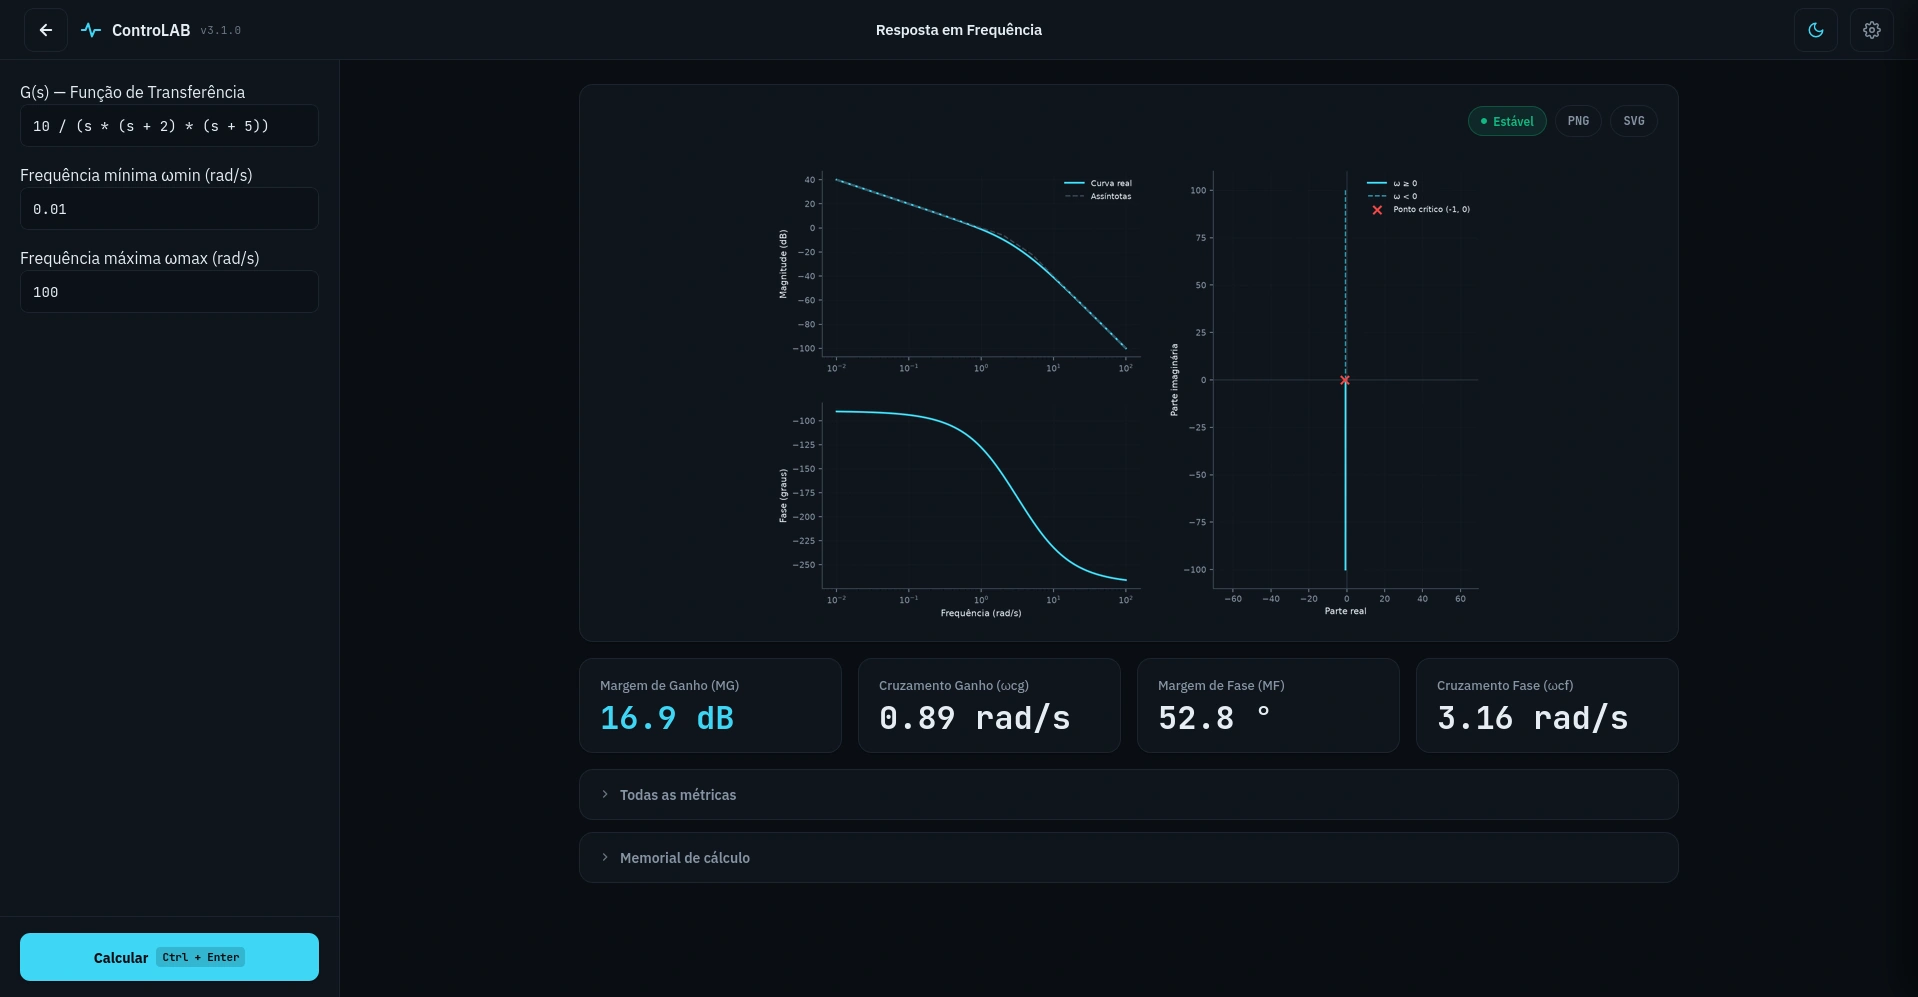
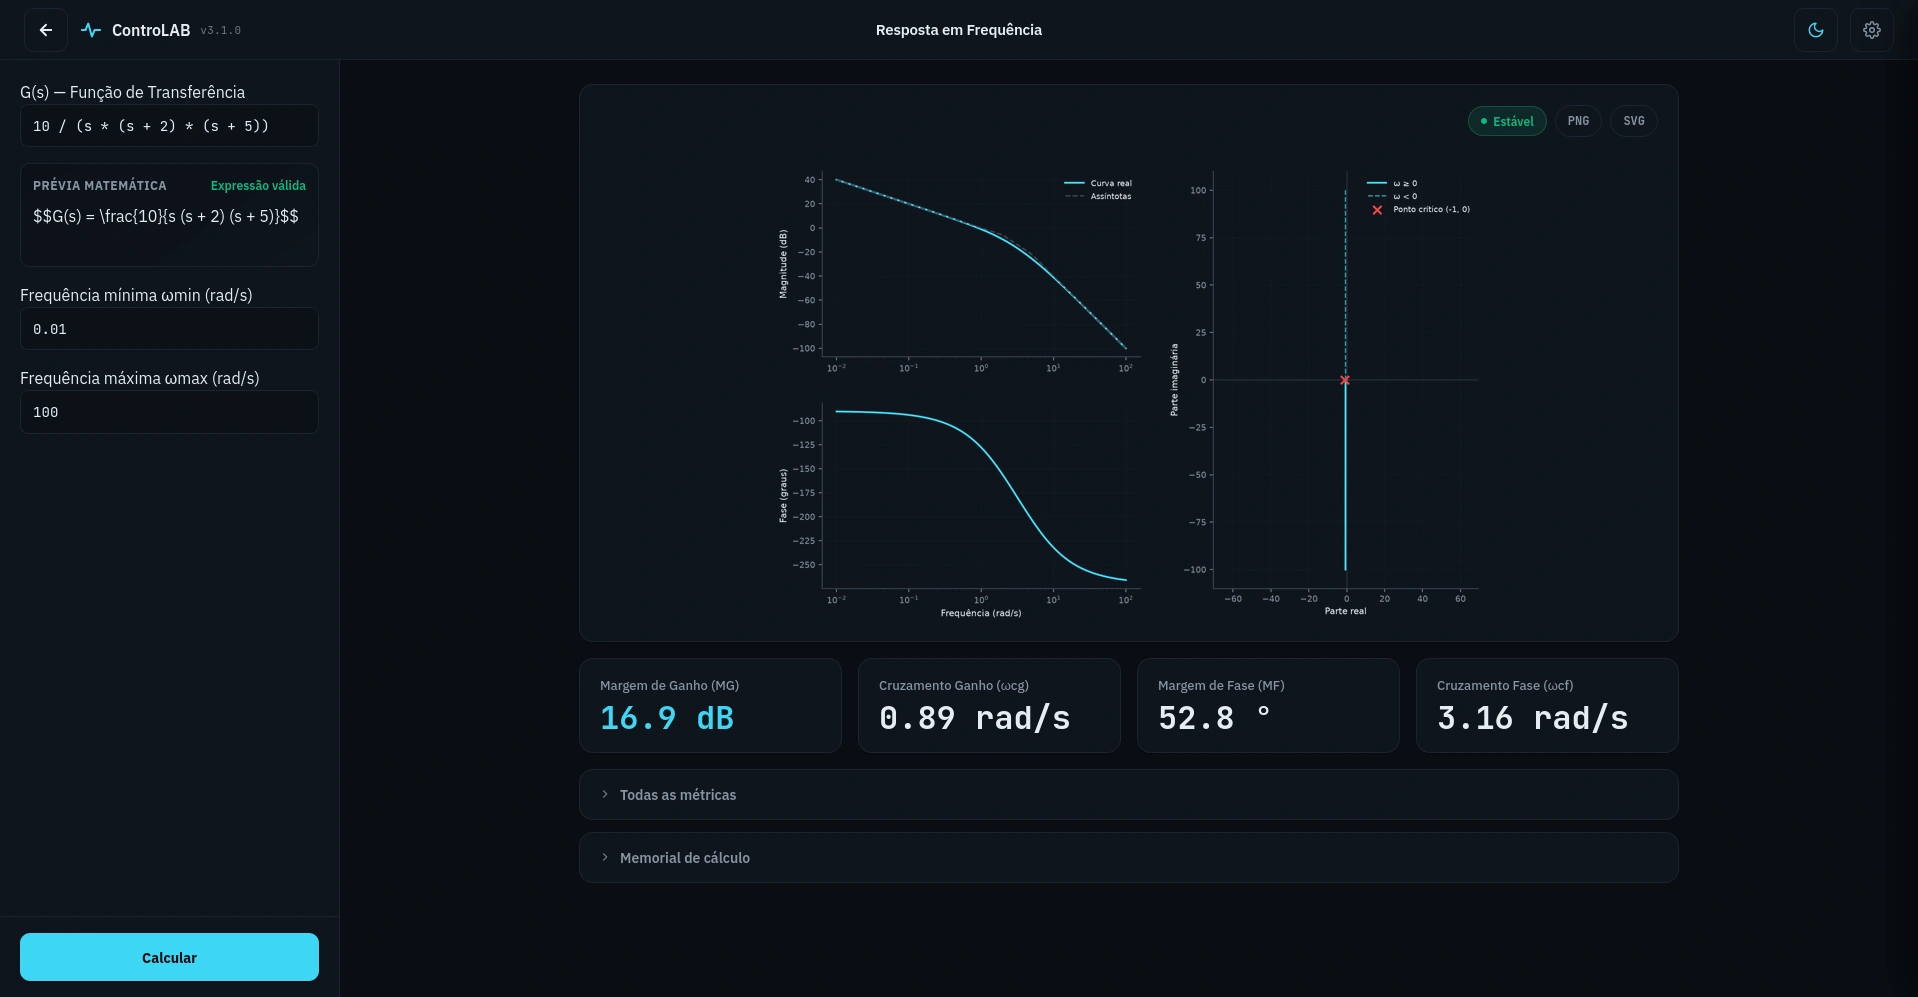
feat(ui): adicionar previa matematica nos modulos cientificos e limpar botoes de acao

diff --git a/src/renderer/scientific-modules.js b/src/renderer/scientific-modules.js
@@ -246,14 +246,118 @@
   function initialize({ renderMath, showToast }) {
     const form = element('scientific-form');
     const runButton = element('btn-run-scientific');
+    const previewContainer = element('scientific-function-preview');
+    const previewStatus = element('scientific-preview-status');
+    const previewMath = element('scientific-latex-preview');
+    const previewError = element('scientific-preview-error');
     if (!form || !runButton) return null;
 
     let currentKey = null;
     let currentResult = null;
     let currentResponseType = 'step';
     let requestId = 0;
+    let previewTimer = null;
+    let previewRequestId = 0;
+    let lastPreviewExpr = null;
+
+    function formatExpressionToLatex(raw, prefix = 'G(s)') {
+      if (!raw) return `${prefix} = 0`;
+      let tex = raw.trim();
+      tex = tex
+        .replace(/\s+/g, ' ')
+        .replace(/\*/g, ' ')
+        .replace(/\^([0-9]+)/g, '^{$1}')
+        .replace(/s([0-9]+)/g, 's^{$1}');
+
+      if (tex.includes('/')) {
+        const slashIdx = tex.indexOf('/');
+        let num = tex.slice(0, slashIdx).trim();
+        let den = tex.slice(slashIdx + 1).trim();
+        if (num.startsWith('(') && num.endsWith(')')) num = num.slice(1, -1).trim();
+        if (den.startsWith('(') && den.endsWith(')')) den = den.slice(1, -1).trim();
+        return `${prefix} = \\frac{${num}}{${den}}`;
+      }
+      return `${prefix} = ${tex}`;
+    }
+
+    function getExpressionInput() {
+      return form.elements.namedItem('expr') || form.elements.namedItem('plant_expr');
+    }
+
+    function scheduleScientificPreview() {
+      const exprInput = getExpressionInput();
+      if (!exprInput || !previewContainer) return;
+      const raw = exprInput.value.trim();
+
+      if (previewMath) {
+        const instantTex = formatExpressionToLatex(raw);
+        renderMath(previewMath, instantTex, true);
+      }
+
+      if (previewStatus) {
+        if (!raw) {
+          previewStatus.textContent = 'Aguardando entrada';
+          previewStatus.className = 'preview-status';
+        } else {
+          previewStatus.textContent = 'Validando…';
+          previewStatus.className = 'preview-status loading';
+        }
+      }
+      if (previewError) previewError.hidden = true;
+
+      if (!raw) {
+        lastPreviewExpr = '';
+        return;
+      }
+
+      const reqId = ++previewRequestId;
+      window.clearTimeout(previewTimer);
+      previewTimer = window.setTimeout(async () => {
+        if (reqId !== previewRequestId) return;
+        if (raw === lastPreviewExpr) return;
+
+        if (!global.api?.previewTransferFunction) {
+          if (previewStatus) {
+            previewStatus.textContent = 'Expressão válida';
+            previewStatus.className = 'preview-status valid';
+          }
+          return;
+        }
+
+        try {
+          const res = await global.api.previewTransferFunction({ mode: 'expr', expr: raw });
+          if (reqId !== previewRequestId) return;
+          if (!res || !res.success) {
+            throw new Error(res?.error || 'Expressão matemática inválida.');
+          }
+          lastPreviewExpr = raw;
+          if (previewMath) {
+            renderMath(previewMath, res.latex_fac || res.latex_exp, true);
+          }
+          if (previewStatus) {
+            previewStatus.textContent = 'Expressão válida';
+            previewStatus.className = 'preview-status valid';
+          }
+          if (previewError) previewError.hidden = true;
+        } catch (err) {
+          if (reqId !== previewRequestId) return;
+          if (previewStatus) {
+            previewStatus.textContent = 'Revise a entrada';
+            previewStatus.className = 'preview-status invalid';
+          }
+          if (previewError) {
+            previewError.textContent = err.message;
+            previewError.hidden = false;
+          }
+        }
+      }, 300);
+    }
 
     function renderFields(config) {
+      if (previewContainer && form.parentElement) {
+        previewContainer.style.display = 'none';
+        form.parentElement.appendChild(previewContainer);
+      }
       form.replaceChildren();
       config.fields.forEach((field) => {
         const group = document.createElement('div');
@@ -332,6 +436,12 @@
         input.autocomplete = 'off';
         group.appendChild(input);
         form.appendChild(group);
+
+        if (field.name === 'expr' || field.name === 'plant_expr') {
+          if (previewContainer) {
+            form.appendChild(previewContainer);
+          }
+        }
       });
 
       if (config.examples?.length) {
@@ -346,6 +456,7 @@
             const expressionInput = form.elements.namedItem('expr') || form.elements.namedItem('plant_expr');
             if (expressionInput) {
               expressionInput.value = expression;
+              scheduleScientificPreview();
               run();
             }
           });
@@ -364,6 +475,15 @@
           return control && accepted.includes(control.value);
         });
       });
+
+      const exprInput = getExpressionInput();
+      if (previewContainer) {
+        const isExprVisible = exprInput && !exprInput.closest('.form-group')?.hidden;
+        previewContainer.style.display = isExprVisible ? 'block' : 'none';
+        if (isExprVisible) {
+          scheduleScientificPreview();
+        }
+      }
     }
 
     function open(moduleKey) {
@@ -371,6 +491,7 @@
       if (!config) return false;
       if (currentKey !== moduleKey) {
         currentKey = moduleKey;
+        lastPreviewExpr = null;
         const kickerEl = element('scientific-kicker');
         if (kickerEl) kickerEl.textContent = config.kicker;
         const titleEl = element('scientific-title');
@@ -569,6 +690,11 @@
       run();
     });
     form.addEventListener('change', updateConditionalFields);
+    form.addEventListener('input', (event) => {
+      if (event.target.name === 'expr' || event.target.name === 'plant_expr') {
+        scheduleScientificPreview();
+      }
+    });
     global.addEventListener('keydown', (event) => {
       if ((event.ctrlKey || event.metaKey) && event.key === 'Enter'
         && element('page-scientific')?.classList.contains('active')) {

diff --git a/src/renderer/index.html b/src/renderer/index.html
@@ -360,9 +360,6 @@
       <!-- Rodapé da Sidebar: Botão de Ação Principal -->
       <div class="sidebar-footer">
         <button id="btn-calculate" class="btn btn-primary btn-calc-action" type="button">
-          <svg width="15" height="15" viewBox="0 0 24 24" fill="none" stroke="currentColor" stroke-width="2.5" stroke-linecap="round" stroke-linejoin="round">
-            <polyline points="22 12 18 12 15 21 9 3 6 12 2 12"/>
-          </svg>
           <span class="btn-text">Traçar LGR</span>
         </button>
       </div>
@@ -669,9 +666,6 @@
         <!-- Rodapé da Sidebar: Botão de Ação Primária idêntico ao LGR -->
         <div class="sidebar-footer">
           <button id="btn-calculate-routh" class="btn btn-primary btn-calc-action" type="button">
-            <svg width="15" height="15" viewBox="0 0 24 24" fill="none" stroke="currentColor" stroke-width="2.5" stroke-linecap="round" stroke-linejoin="round">
-              <polyline points="22 12 18 12 15 21 9 3 6 12 2 12"/>
-            </svg>
             <span class="btn-text">Calcular Estabilidade</span>
           </button>
         </div>
@@ -879,11 +873,19 @@
           <h1 id="scientific-title" class="scientific-title" style="display: none;"></h1>
           <p id="scientific-description" class="scientific-description" style="display: none;"></p>
           <form id="scientific-form" class="scientific-form"></form>
+          <!-- Prévia Matemática em Tempo Real (Resposta no tempo, Resposta em frequência, Projeto de controladores) -->
+          <div class="function-preview" id="scientific-function-preview" aria-live="polite" style="display: none;">
+            <div class="preview-heading">
+              <span>Prévia matemática</span>
+              <span id="scientific-preview-status" class="preview-status valid">Expressão válida</span>
+            </div>
+            <div id="scientific-latex-preview" class="preview-math">G(s) = 0</div>
+            <div id="scientific-preview-error" class="preview-error" hidden></div>
+          </div>
         </div>
         <div class="scientific-sidebar-footer">
           <button id="btn-run-scientific" class="btn btn-primary btn-calc-action" type="submit" form="scientific-form">
             <span class="btn-text">Calcular</span>
-            <kbd class="btn-kbd">Ctrl + Enter</kbd>
           </button>
         </div>
       </aside>

diff --git a/tests/renderer-smoke.js b/tests/renderer-smoke.js
@@ -50,5 +50,10 @@ assert(styles.includes('prefers-reduced-motion: reduce'), 'a interface precisa r
 assert(styles.includes('safe-area-inset-bottom'), 'os elementos fixos precisam respeitar a área segura móvel');
 assert(styles.includes('.katex-display'), 'fórmulas extensas precisam permanecer navegáveis em telas estreitas');
 assert(styles.includes('grid-template-columns: minmax(0, 1fr)'), 'cards do Routh não podem expandir além da tela móvel');
+assert(html.includes('id="scientific-function-preview"'), 'a prévia matemática dos módulos científicos precisa existir no HTML');
+assert(!html.includes('Ctrl + Enter'), 'o atalho visual Ctrl + Enter deve ser removido de todos os botões');
+assert(!html.includes('id="btn-calculate" class="btn btn-primary btn-calc-action" type="button">\n          <svg'), 'o botão Traçar LGR não deve ter ícone SVG');
+assert(!html.includes('id="btn-calculate-routh" class="btn btn-primary btn-calc-action" type="button">\n            <svg'), 'o botão Calcular Estabilidade não deve ter ícone SVG');
+assert(scientificModules.includes('scheduleScientificPreview'), 'os módulos científicos precisam agendar e atualizar a prévia matemática');
 
 console.log('Integração, responsividade e navegação do renderer válidas.');

diff --git a/src/renderer/styles.css b/src/renderer/styles.css
@@ -4300,6 +4300,11 @@ textarea::placeholder {
   gap: 16px;
 }
 
+.scientific-sidebar-content .function-preview,
+.scientific-form .function-preview {
+  margin-top: 0;
+}
+
 .scientific-field {
   display: flex;
   flex-direction: column;

diff --git a/scripts/generate-screenshots.py b/scripts/generate-screenshots.py
@@ -31,8 +31,10 @@ def render_html_to_webp(html_content: str, width: int, height: int, out_filename
     html_fixed = html_fixed.replace('href="styles.css"', f'href="{PROJECT_ROOT}/src/renderer/styles.css"')
     html_fixed = html_fixed.replace('href="vendor/katex/katex.min.css"', f'href="{PROJECT_ROOT}/src/renderer/vendor/katex/katex.min.css"')
     html_fixed = html_fixed.replace('src="vendor/katex/katex.min.js"', f'src="{PROJECT_ROOT}/src/renderer/vendor/katex/katex.min.js"')
+    html_fixed = html_fixed.replace('src="vendor/katex/contrib/auto-render.min.js"', f'src="{PROJECT_ROOT}/src/renderer/vendor/katex/contrib/auto-render.min.js"')
     for s in ['app.js', 'web-api.js', 'navigation.js', 'settings.js', 'routh.js', 'scientific-modules.js']:
         html_fixed = html_fixed.replace(f'<script src="{s}"></script>', '')
+    html_fixed = html_fixed.replace('</body>', '<script>if(window.renderMathInElement) renderMathInElement(document.body, {delimiters:[{left:"$$",right:"$$",display:true}]});</script></body>')
 
     tmp_html.write_text(html_fixed, encoding="utf-8")
     png_tmp = f"/tmp/{out_filename}.png"
@@ -119,6 +121,13 @@ def generate_all():
     res_time = dispatch({'action': 'time_response', 'numerator': '4', 'denominator': 's^2 + 2*s + 4', 'theme': 'dark'})
     form_time = '''
     <div class="field-group"><label class="field-label">G(s) — Função de Transferência</label><input class="form-input code-font" value="4 / (s^2 + 2*s + 4)"></div>
+    <div class="function-preview" style="margin-top: 0;">
+      <div class="preview-heading">
+        <span>Prévia matemática</span>
+        <span class="preview-status valid">Expressão válida</span>
+      </div>
+      <div class="preview-math">$$G(s) = \\frac{4}{s^{2} + 2 s + 4}$$</div>
+    </div>
     <div class="field-group"><label class="field-label">Tempo final (s)</label><input class="form-input code-font" value="10"></div>
     <div class="field-group"><label class="field-label">Faixa de acomodação</label><select class="form-select"><option selected>2%</option><option>5%</option></select></div>
     '''
@@ -154,6 +163,13 @@ def generate_all():
     res_freq = dispatch({'action': 'frequency_response', 'numerator': '10', 'denominator': 's * (s + 2) * (s + 5)', 'theme': 'dark'})
     form_freq = '''
     <div class="field-group"><label class="field-label">G(s) — Função de Transferência</label><input class="form-input code-font" value="10 / (s * (s + 2) * (s + 5))"></div>
+    <div class="function-preview" style="margin-top: 0;">
+      <div class="preview-heading">
+        <span>Prévia matemática</span>
+        <span class="preview-status valid">Expressão válida</span>
+      </div>
+      <div class="preview-math">$$G(s) = \\frac{10}{s (s + 2) (s + 5)}$$</div>
+    </div>
     <div class="field-group"><label class="field-label">Frequência mínima ωmin (rad/s)</label><input class="form-input code-font" value="0.01"></div>
     <div class="field-group"><label class="field-label">Frequência máxima ωmax (rad/s)</label><input class="form-input code-font" value="100"></div>
     '''
@@ -170,6 +186,13 @@ def generate_all():
     res_ctrl = dispatch({'action': 'controller_design', 'plant_expr': '1 / (s * (s + 1) * (s + 5))', 'design_type': 'pid', 'method': 'zn_critical', 'controller_type': 'PID', 'critical_gain': 6, 'critical_period': 2, 'theme': 'dark'})
     form_ctrl = '''
     <div class="field-group"><label class="field-label">Planta G(s)</label><input class="form-input code-font" value="1 / (s * (s + 1) * (s + 5))"></div>
+    <div class="function-preview" style="margin-top: 0;">
+      <div class="preview-heading">
+        <span>Prévia matemática</span>
+        <span class="preview-status valid">Expressão válida</span>
+      </div>
+      <div class="preview-math">$$G(s) = \\frac{1}{s (s + 1) (s + 5)}$$</div>
+    </div>
     <div class="field-group"><label class="field-label">Tipo de projeto</label><select class="form-select"><option selected>Sintonia P / PI / PID</option></select></div>
     <div class="field-group"><label class="field-label">Método</label><select class="form-select"><option selected>Ziegler-Nichols — oscilação crítica</option></select></div>
     <div class="field-group"><label class="field-label">Estrutura</label><select class="form-select"><option selected>PID</option></select></div>
